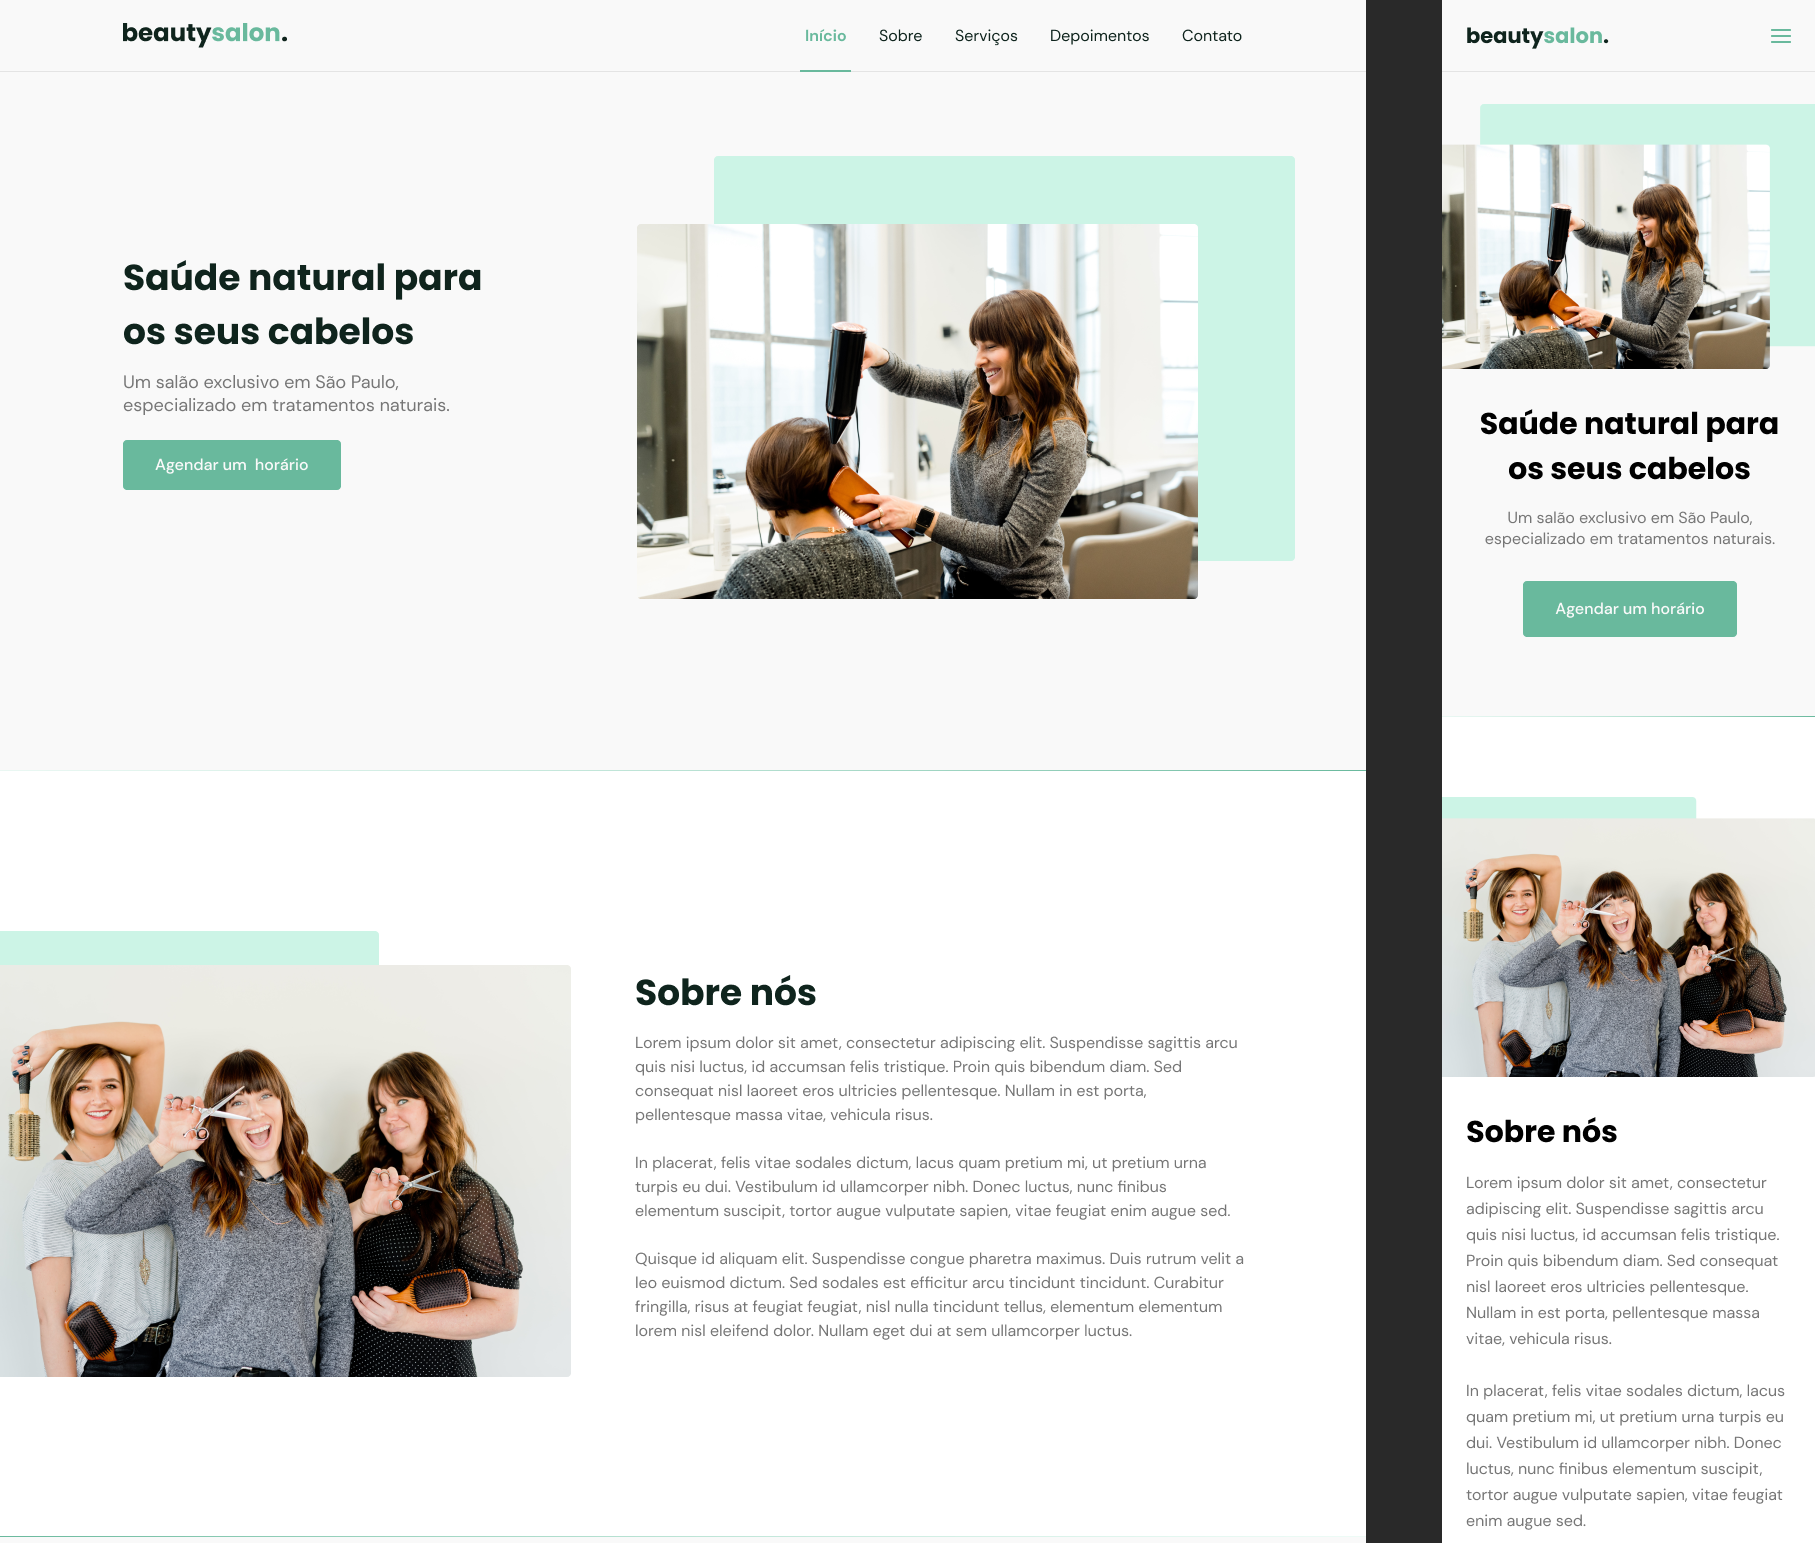
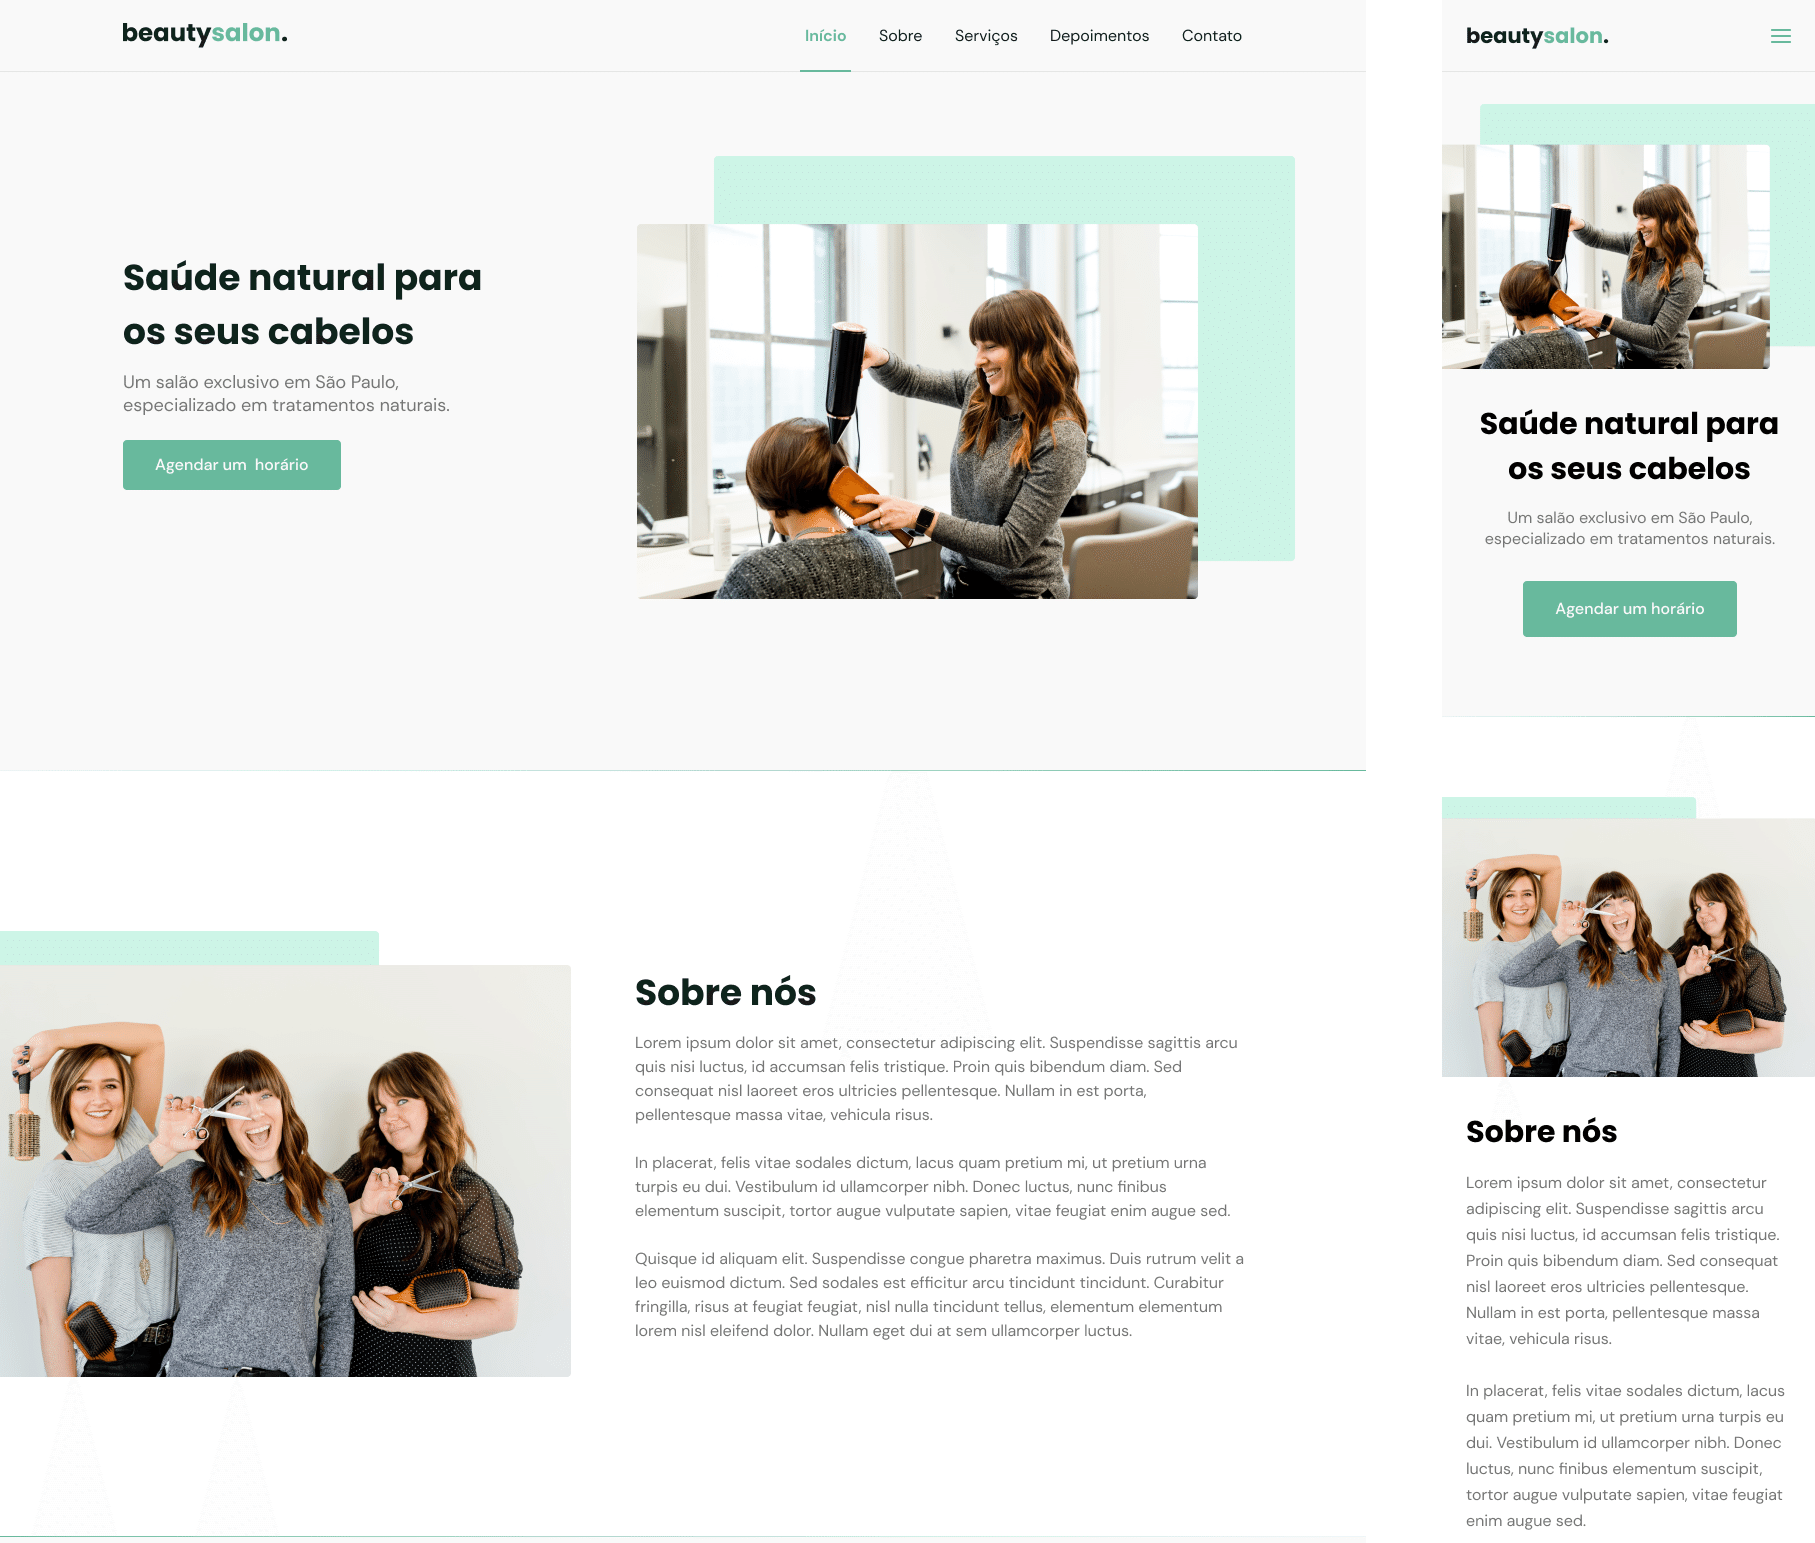
otimizacao assets e att readme

Changed region(s): [[0.7405, 0.0, 0.8022, 1.0]]

diff --git a/README.md b/README.md
@@ -2,4 +2,4 @@
 
 - Projeto criado durante a Next Level Week #6, da Rocketseat, missão Origin.
 
-<img src="assets/.github/landing.png" alt="BeautySalon">
+<a href="https://matheuscostadesign.github.io/nlw6-beauty-salon/"><img src="assets/.github/landing.png" alt="BeautySalon"></a>
